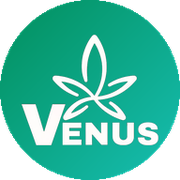
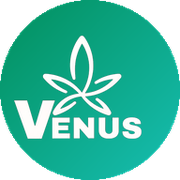
Fix toast misalignment by separating CSS centering from GSAP transforms.

Changed region(s): [[0.0556, 0.1944, 0.8889, 0.8333]]

diff --git a/css/main.css b/css/main.css
@@ -6046,8 +6046,7 @@
     width: 36px;
     height: 36px;
     border-radius: 50%;
-    padding: 2px;
-    background: linear-gradient(135deg, var(--jade), color-mix(in srgb, var(--jade) 75%, #14b8a6));
+    overflow: hidden;
     box-shadow: 0 2px 10px var(--jade-glow);
   }
 
@@ -6057,8 +6056,7 @@
     height: 100%;
     border-radius: 50%;
     object-fit: cover;
-    object-position: center 38%;
-    background: var(--surface);
+    object-position: center;
   }
 
   .in-app-banner-copy {
@@ -6108,11 +6106,14 @@
   }
 
   /* ---------- Toast ---------- */
+  /* Center with left/right + margin so GSAP can own transform (y/scale) without fighting translateX(-50%). */
   .toast {
     position: fixed;
     bottom: calc(var(--fab-stack-height) + var(--space-3) + env(safe-area-inset-bottom, 0px));
-    left: 50%;
-    transform: translateX(-50%) translateY(14px) scale(0.96);
+    left: 0;
+    right: 0;
+    margin-inline: auto;
+    transform: translateY(14px) scale(0.96);
     display: flex;
     align-items: center;
     gap: 12px;
@@ -6157,7 +6158,7 @@
 
   .toast.show {
     opacity: 1;
-    transform: translateX(-50%) translateY(0) scale(1);
+    transform: translateY(0) scale(1);
   }
 
   .toast-icon {

diff --git a/js/animations.js b/js/animations.js
@@ -237,7 +237,8 @@ export function animateToastIn(el) {
   }
 
   el.classList.remove('show');
-  gsap().set(el, { xPercent: -50, y: 14, scale: 0.96, opacity: 0 });
+  // Centering is CSS (left/right + margin); keep transform free of x/xPercent.
+  gsap().set(el, { x: 0, xPercent: 0, y: 14, scale: 0.96, opacity: 0 });
   toastTween = gsap().to(el, {
     y: 0,
     scale: 1,
@@ -266,7 +267,7 @@ export function animateToastOut(el) {
     onComplete: () => {
       el.classList.remove('show');
       el.hidden = true;
-      gsap().set(el, { clearProps: 'opacity,transform' });
+      gsap().set(el, { clearProps: 'opacity,transform,x,xPercent,y,scale' });
     },
   });
 }

diff --git a/js/notifications.js b/js/notifications.js
@@ -187,7 +187,7 @@ export function showInAppBanner({ type = NOTIF_TYPE.DELIVERY_TEST, title, body =
     document.body.appendChild(el);
   }
 
-  const logo = getAssetHref('logo.svg');
+  const logo = getAssetHref('logo-notif.png');
   const primaryUrl = url || getPageHref('delivery');
   const actionHtml =
     actions ||

diff --git a/sw.js b/sw.js
@@ -1,4 +1,4 @@
-const CACHE_VERSION = 'venus-pos-v6';
+const CACHE_VERSION = 'venus-pos-v7';
 const SHELL_CACHE = `${CACHE_VERSION}-shell`;
 const RUNTIME_CACHE = `${CACHE_VERSION}-runtime`;
 